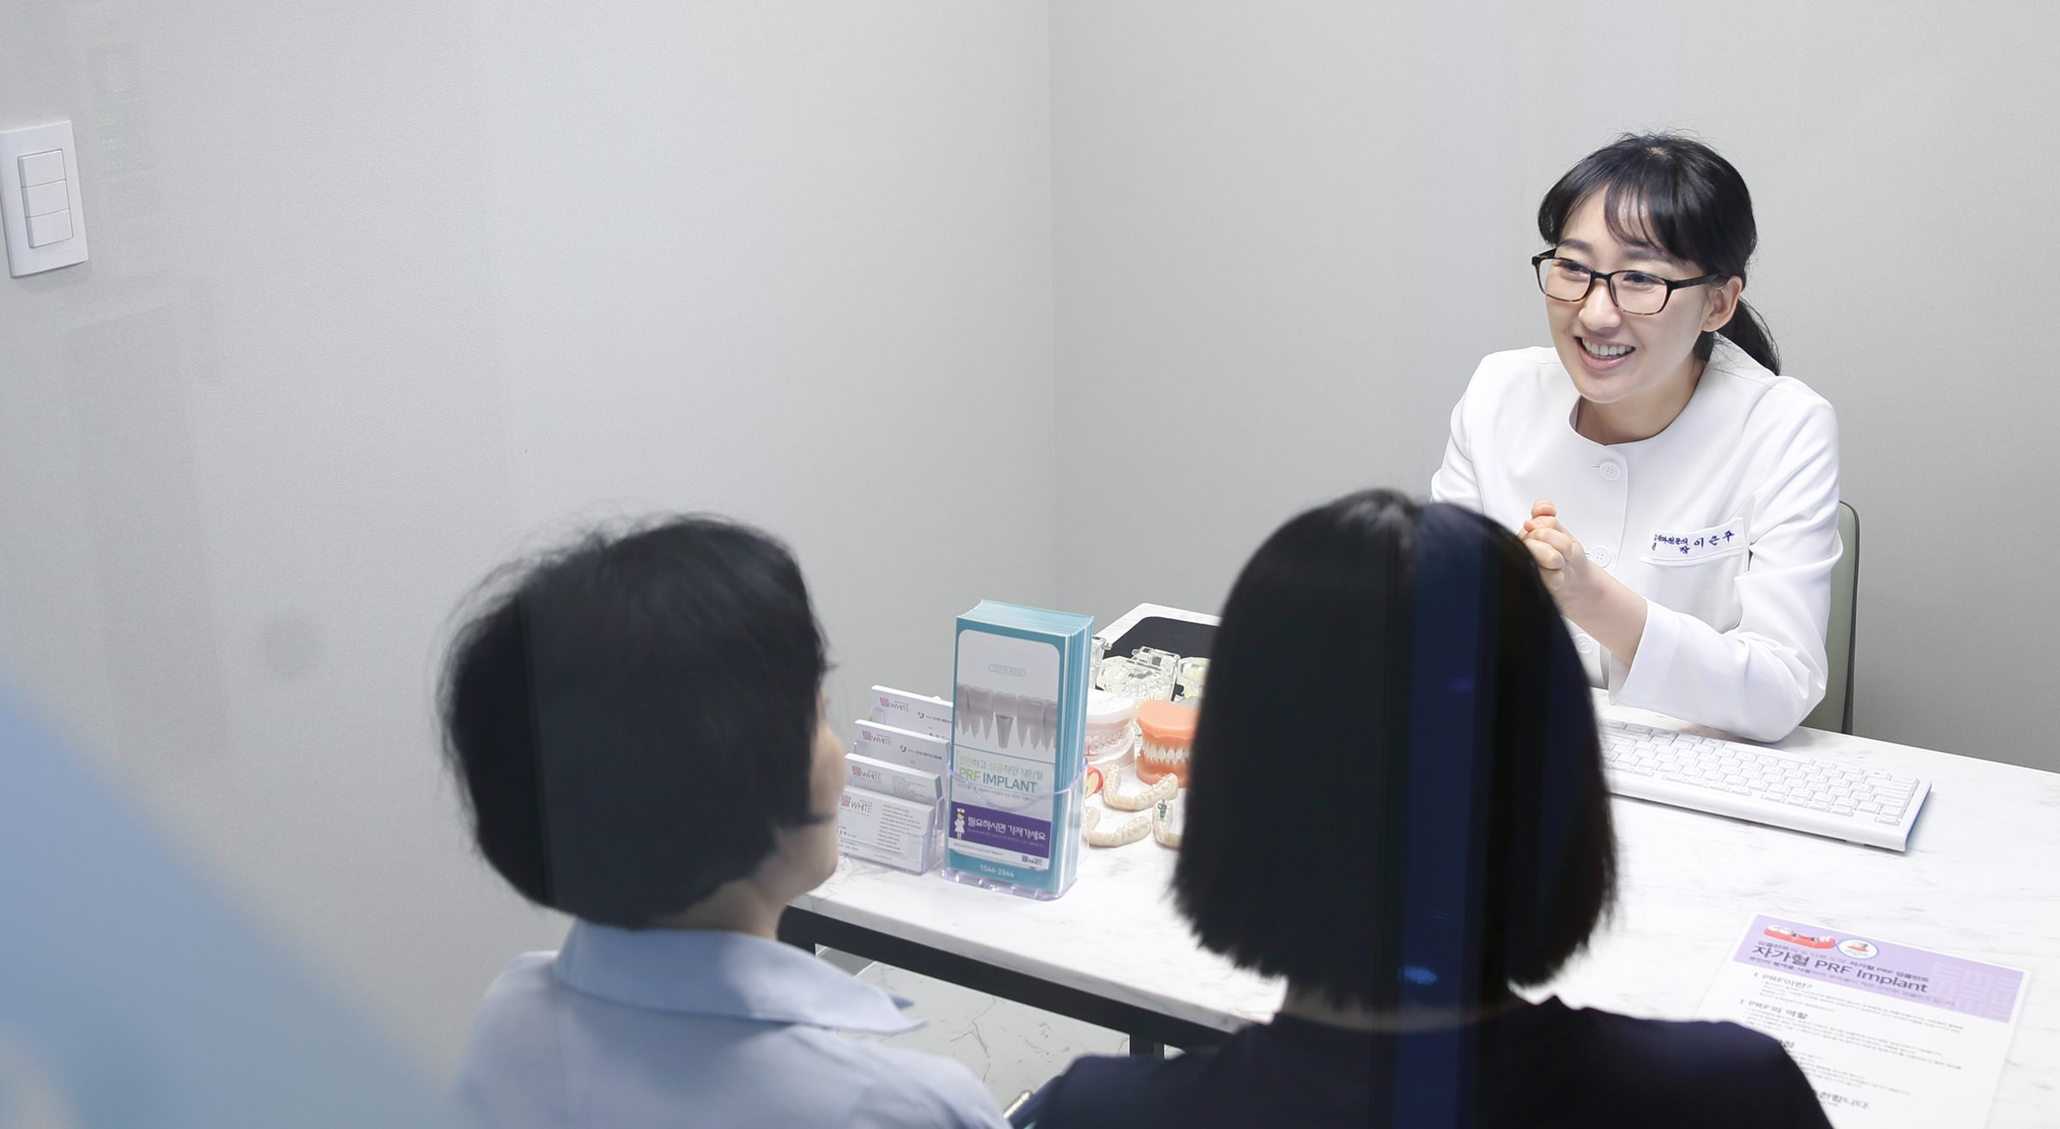
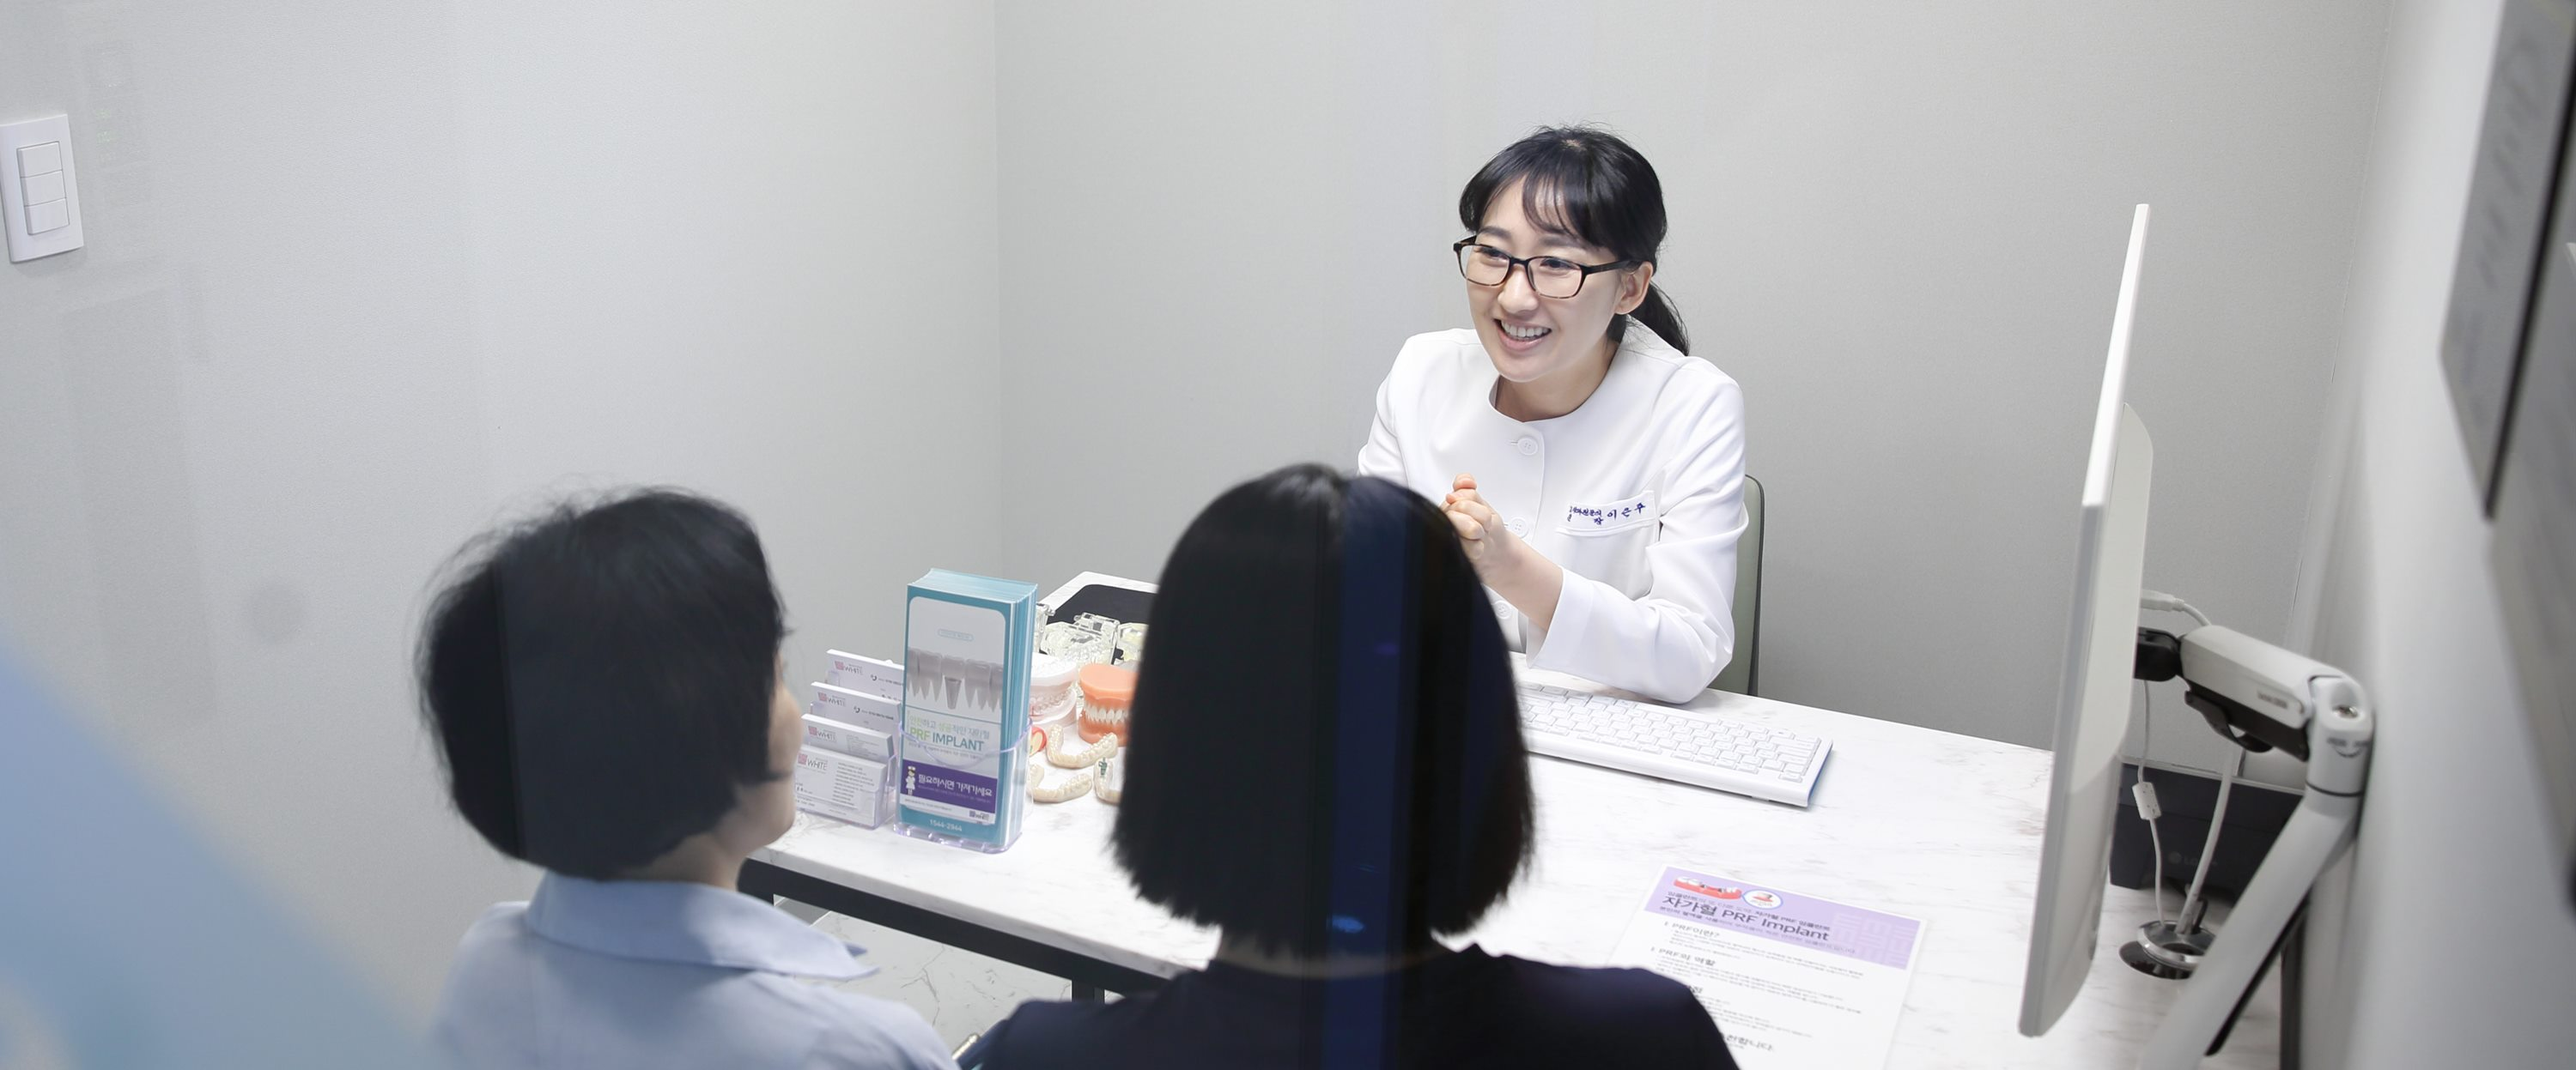
메인 HERO 다듬기 — 왼→오 어둠 그라데이션, 슬라이드별 사진 위치·확대(site-data heroSlides), 1920 기준 문구 크기 clamp, 이은주 대표원장 이름표
- 어두운 막: 왼쪽 0.65 → 가운데 0.35 → 오른쪽 0.1 + 문구 뒤 옅은 어둠(대비 4.5:1 이상, 측정 최저 9.2:1)
- heroSlides: pos/scale/origin/scrim/caption — PC(1025px 이상)만, 모바일 사진 위치는 CSS
- 문구: 1920 라벨 20·제목 72·서브 20·버튼 56 → 1366 까지 비례 축소, 시작선 = 로고
- 2번 슬라이드 이름표(1367px 이상), hero-02 넓게 재크롭 3000×1247, 모바일 63%

diff --git a/assets/css/main.css b/assets/css/main.css
@@ -21,11 +21,38 @@ html::-webkit-scrollbar { display: none; }
 .hero__slide.is-moving { transition: transform 0.9s cubic-bezier(0.65, 0, 0.35, 1); }
 .hero__media { position: absolute; inset: 0; background: linear-gradient(120deg, #3a3330, #151515); } /* 사진이 없을 때 */
 .hero__media img { width: 100%; height: 100%; object-fit: cover; }
-@media (max-width: 768px) { .hero__media--consult img { object-position: 78% center; } } /* 히어로 2번(진료 상담): 세로 화면에서는 원장님 쪽(오른쪽)이 보이게 */
-.hero__media::before { content: ""; position: absolute; inset: 0; z-index: 1; background: linear-gradient(90deg, rgba(10, 10, 10, 0.85) 0%, rgba(10, 10, 10, 0.65) 50%, rgba(10, 10, 10, 0.5) 100%); }
+@media (max-width: 768px) { .hero__media--consult img { object-position: 63% center; } /* hero-02 3000×1247 — 원장님 얼굴이 사진 가로 약 60% */ } /* 히어로 2번(진료 상담): 세로 화면에서는 원장님 쪽(오른쪽)이 보이게 */
+/* 어두운 막: 왼쪽(문구 쪽) 진하게 → 오른쪽(사진 피사체 쪽) 옅게 — 왼쪽 0.65 · 가운데 0.35 · 오른쪽 0.1 (위쪽 헤더 그라데이션은 .hero__slider::after 따로) */
+.hero__media::before { content: ""; position: absolute; inset: 0; z-index: 1; background: linear-gradient(90deg, rgba(10, 10, 10, 0.65) 0%, rgba(10, 10, 10, 0.35) 50%, rgba(10, 10, 10, 0.1) 100%); }
 /* 들어오는 사진: scale 1.06 → 1 (전환과 함께 1.2s) */
 .hero__media img { transform: scale(1); transition: transform 1.2s cubic-bezier(0.65, 0, 0.35, 1); }
 .hero__slide.is-entering .hero__media img { transform: scale(1.06); transition: none; }
+/* 문구 뒤 옅은 어둠(PC): 화면 전체 막은 왼쪽 0.65 → 가운데 0.35 → 오른쪽 0.1 로 옅어서, 문구가 걸치는 가운데 왼쪽에 밝은 사진(창문·흰 가운)이 오면
+   흰 글자 대비가 4.5:1 아래로 떨어진다 → 문구 묶음 뒤에만 가장자리가 부드럽게 사라지는 어둠을 한 겹 더 (문구와 함께 나타남) */
+@media (min-width: 1025px) {
+  .hero__content { isolation: isolate; }
+  .hero__content::before { content: ""; position: absolute; z-index: -1; left: calc(-1 * var(--hero-x) - 40px); width: min(1300px, 75vw); top: -45%; bottom: -45%; background: rgba(10, 10, 10, var(--hero-scrim, 0.6)); -webkit-mask: radial-gradient(farthest-side at 42% 50%, #000 45%, transparent 100%); mask: radial-gradient(farthest-side at 42% 50%, #000 45%, transparent 100%); opacity: 0; pointer-events: none; }
+  .hero__slide.is-shown .hero__content::before { animation: hero-out 0.8s var(--ease) reverse both; }
+  .hero__slide.is-leaving .hero__content::before { animation: hero-out 0.3s ease both; }
+}
+/* PC: 슬라이드별 사진 위치·확대 (site-data.js heroSlides → --hero-pos · --hero-scale · --hero-origin) */
+@media (min-width: 1025px) {
+  .hero__media img { object-position: var(--hero-pos, 50% 50%); transform-origin: var(--hero-origin, 50% 50%); transform: scale(var(--hero-scale, 1)); }
+  .hero__slide.is-entering .hero__media img { transform: scale(calc(var(--hero-scale, 1) * 1.06)); }
+}
+/* 인물 이름표 (site-data.js heroSlides[].caption — main.js 가 만든다): 흰 반투명 + 모서리 4px + 옅은 그림자, 왼쪽 작은 파랑 선
+   이름 16px 굵게 / 직함·진료과 14px. 슬라이드가 들어온 뒤 0.4s 후 아래에서 올라온다. 1366px 이하·모바일은 숨김 */
+.hero__caption { display: none; }
+@media (min-width: 1367px) {
+  .hero__caption { position: absolute; z-index: 2; left: var(--cx); top: var(--cy); display: grid; gap: 2px; padding: 12px 18px 12px 24px; border-radius: 4px; background: rgba(255, 255, 255, 0.9); box-shadow: 0 8px 24px rgba(0, 0, 0, 0.16); color: var(--color-text); opacity: 0; white-space: nowrap; pointer-events: none; }
+  .hero__caption::before { content: ""; position: absolute; left: 12px; top: 14px; bottom: 14px; width: 3px; border-radius: 2px; background: var(--color-accent); }
+  .hero__caption-name { font-size: 1rem; font-weight: 700; line-height: 1.4; }
+  .hero__caption-role { font-size: 0.875rem; line-height: 1.4; color: var(--color-text-sub); }
+  .hero__slide.is-shown .hero__caption { animation: hero-up 0.6s var(--ease) 0.4s both; }
+  .hero__slide.is-leaving .hero__caption { animation: hero-out 0.3s ease both; }
+  .is-intro .hero__slide.is-shown .hero__caption { animation-delay: 1.7s; } /* 첫 진입: 문구 뒤에 */
+}
+@media (prefers-reduced-motion: reduce) { .hero__caption { opacity: 1; } }
 /* 세로 위치: 헤더에 가려지지 않는 부분(헤더 아래 ~ 히어로 끝)의 가운데 */
 .hero__content { --hero-shift: 100px; position: absolute; z-index: 2; top: calc(50% + var(--header-h) / 2); left: calc(var(--hero-x) + var(--hero-shift)); right: calc(var(--hero-x) + 160px); transform: translateY(-50%); } /* 왼쪽: 로고 시작선 + 100px(--hero-shift, PC) · 오른쪽 160px: 플로팅 퀵메뉴 자리 */
 @media (max-width: 1024px) { .hero__content { --hero-shift: 0px; } } /* 태블릿·모바일은 그대로 */
@@ -913,8 +940,13 @@ html.is-fullpage .cases__list { height: max(420px, (100vh - var(--header-h)) * 0
    헤더 칸(common.css .header__inner: 최대 1600px, 좌우 최소 40px)과 같은 선 → 문구 왼쪽 = 로고 시작선, 조작 버튼 오른쪽 = 헤더 오른쪽 끝선 */
 @media (min-width: 1025px) {
   .hero { --hero-x: max(40px, (100cqw - 1600px) / 2); }
-  /* 좁은 데스크톱 + 글자 크게: 가장 긴 제목 줄이 3줄이 되지 않게 화면 폭 기준 상한 */
-  .hero__title { font-size: min(var(--fs-display), 5.4vw); }
+  .hero__content { --hero-shift: 0px; } /* 문구 묶음 왼쪽 시작선 = 로고 시작선 */
+  /* 문구 크기: 1920px 기준 라벨 20 · 타이틀 72 · 서브 20 · 버튼 높이 56 → 화면 폭에 비례해 1366px 까지 줄어든다(clamp)
+     라벨·서브는 어르신 가독성 최소 16px 아래로 내리지 않는다. 좁은 데스크톱 + 글자 크게: 제목 상한 5.4vw (3줄 방지) */
+  .hero__label { font-size: clamp(1rem, 1.0417vw, 1.25rem); }
+  .hero__title { margin-top: clamp(12px, 0.833vw, 16px); font-size: min(clamp(3.2rem, 3.75vw, 4.5rem), 5.4vw); line-height: 1.2; }
+  .hero__desc { margin-top: clamp(20px, 1.25vw, 24px); font-size: clamp(1rem, 1.0417vw, 1.25rem); }
+  .hero__btn { margin-top: clamp(32px, 2.08vw, 40px); height: clamp(44px, 2.917vw, 56px); padding: 0 clamp(28px, 1.875vw, 36px); font-size: clamp(1rem, 0.9375vw, 1.125rem); }
 }
 
 /* ---------- 첫 진입 애니메이션 (페이지 로드 시 1회) ----------
@@ -949,7 +981,7 @@ html.is-fullpage .cases__list { height: max(420px, (100vh - var(--header-h)) * 0
 /* 낮은 화면(높이 800px 이하): 첫 화면 한 장에 [문구 → 조작 버튼 → 퀵바] 가 다 들어가도록 단계적으로 줄인다
    1단계 제목 크기를 화면 높이 기준으로 축소(최대 6vh) + 문구 간격 축소 → 2단계 서브 문구 숨김(글자 크게·아주 크게) */
 @media (min-width: 1025px) and (min-height: 700px) and (max-height: 800px) {
-  html .screen-home .hero__title { font-size: min(var(--fs-display), 5.4vw, 6vh); margin-top: 8px; }
+  html .screen-home .hero__title { font-size: min(clamp(3.2rem, 3.75vw, 4.5rem), 5.4vw, 6vh); margin-top: 8px; }
   .screen-home .hero__desc { margin-top: 14px; }
   .screen-home .hero__btn { margin-top: 22px; }
   html:is([data-fs="lg"], [data-fs="xl"]) .screen-home .hero__desc { display: none; }

diff --git a/assets/js/site-data.js b/assets/js/site-data.js
@@ -101,6 +101,21 @@ window.SITE = {
        photoBacker  true 면 사진 뒤에 흰 둥근 그라데이션(인물 크기)을 깐다 — 섹션 배경 사진(doctors-bg.jpg)의 무늬가 흰 가운 등으로 비칠 때 그 원장만.
                     photoBlend: true 일 때만 쓰임 (투명 PNG 면 필요 없음). 없으면 꺼짐
      지금 값 = '정수리 ~ 턱' 높이가 모두 같고(사진 기준 225px) 정수리가 칸 위에서 7% 선에 오도록 계산한 값. 방법은 README '자주 하는 수정' */
+  /* 메인 히어로 슬라이드별 사진 설정 (index.html 슬라이드 순서와 같게, main.js initHero 가 적용) — PC(1025px 이상)에만
+       pos     사진 위치 object-position ('가로% 세로%') — 사진이 화면보다 넓거나 높을 때 어느 쪽을 보일지
+       scale   확대 비율 (1 = 꽉 채움). 1 보다 크면 origin 을 기준으로 키운다 — 피사체를 가운데~오른쪽으로 옮길 때
+       origin  확대 기준점 transform-origin ('가로% 세로%'), 없으면 가운데
+       scrim   문구 뒤 옅은 어둠 진하기 (0~1, 없으면 0.6) — 문구 뒤에 밝은 부분(흰 장갑 등)이 오는 사진만 올린다 (흰 글자 대비 4.5:1)
+       caption 인물 이름표 { name, role, x, y } — x·y = 이름표 왼쪽 위 위치(히어로 기준 %). 의료진이 없는 사진은 넣지 않는다
+               1367px 이상에서만 보이고(그 아래·모바일은 숨김), 슬라이드가 들어온 뒤 0.4s 후 아래에서 올라온다
+     모바일은 사진 위치를 따로(main.css 768px 이하) */
+  heroSlides: [
+    { pos: '50% 40%', scrim: 0.78 }, // 1 진료 장면: 입·손이 이미 가운데~오른쪽. 흰 장갑이 문구 뒤라 어둠을 진하게
+    { pos: '36% 50%', scale: 1.1, caption: { name: '이은주 대표원장', role: '치과교정과 전문의', x: 60, y: 45 } }, // 2 상담: 원장님이 화면 가로 약 60~85%
+    { pos: '78% 50%' }, // 3 야경 건물: 건물을 오른쪽으로
+    { pos: '50% 46%' }, // 4 임플란트 모형(세로 사진 — 가로 꽉 채움): 모형이 가운데~오른쪽, 확대는 하지 않음(이미 크게 보임)
+  ],
+
   /* 메인 의료진 섹션 인물 나열 순서 (왼쪽 → 오른쪽, 이름). 없는 지점은 대표원장 먼저 + 데이터 순서. 의료진 소개 페이지 순서는 그대로 */
   mainDoctorOrder: {
     changwon: ['권진선', '이은주', '김영우', '이휘소'], // 이은주·김영우 가운데, 권진선·이휘소 양옆

diff --git a/assets/js/main.js b/assets/js/main.js
@@ -131,6 +131,24 @@ function initHero() {
   let busy = false;
 
   slider.querySelector('[data-hero-total]').textContent = slides.length;
+  // 슬라이드별 사진 위치·확대·이름표 (site-data.js heroSlides — CSS 변수로 넘기고 PC 에서만 쓴다)
+  const esc = window.UI?.esc || ((s) => String(s));
+  slides.forEach((s, k) => {
+    const cfg = (window.SITE?.heroSlides || [])[k];
+    if (!cfg) return;
+    if (cfg.pos) s.style.setProperty('--hero-pos', cfg.pos);
+    if (cfg.scale) s.style.setProperty('--hero-scale', cfg.scale);
+    if (cfg.origin) s.style.setProperty('--hero-origin', cfg.origin);
+    if (cfg.scrim != null) s.style.setProperty('--hero-scrim', cfg.scrim);
+    if (cfg.caption && !s.querySelector('.hero__caption')) {
+      const c = document.createElement('p');
+      c.className = 'hero__caption';
+      c.style.setProperty('--cx', `${cfg.caption.x}%`);
+      c.style.setProperty('--cy', `${cfg.caption.y}%`);
+      c.innerHTML = `<strong class="hero__caption-name">${esc(cfg.caption.name)}</strong><span class="hero__caption-role">${esc(cfg.caption.role)}</span>`;
+      s.querySelector('.hero__media').after(c);
+    }
+  });
   if (!slider.hasAttribute('tabindex')) slider.tabIndex = 0; // 키보드 ←→ 로 넘기려면 히어로에 포커스가 들어와야 한다
 
   const wrap = (i) => (i + slides.length) % slides.length;

diff --git a/docs/HANDOVER.md b/docs/HANDOVER.md
@@ -120,7 +120,7 @@
 | clinic-implant.jpg (메인 진료안내 임플란트 카드 — 2026-11-06 교체, 7200×4066 → 1600×904) | 제공 자료 `자료/메인페이지/pc0040716569.jpg` — **출처·라이선스 확인 필요** (구매한 스톡 이미지인지, 웹 사용 범위) | 확인 필요 | 확인 필요 |
 | clinic-wisdom-scaling.jpg (메인 진료안내 사랑니·스케일링 카드 — 2026-11-06 교체, 4200×4200 PNG → 1600×1600 JPG) | 제공 자료 `자료/메인페이지/스케일링.png` — **출처·라이선스 확인 필요** | 확인 필요 | 확인 필요 |
 | clinic-general.jpg (메인 진료안내 일반치료 카드 — 2026-11-06 교체, 6800×5100 → 1600×1200) | 제공 자료 `자료/메인페이지/cb1700001631.jpg` — **출처·라이선스 확인 필요** | 확인 필요 | 확인 필요 |
-| hero-02.jpg (메인 히어로 2번 — 2026-11-06) | 병원 제공 진료 상담 사진 `2.의료진/환자상담/진료상담(1).JPG` 를 참고 이미지(`자료/서브/hero-2참고이미지.png`) 구도대로 자름 (2400×1315) | 병원 | 병원 제공 |
+| hero-02.jpg (메인 히어로 2번 — 2026-11-06) | 병원 제공 진료 상담 사진 `2.의료진/환자상담/진료상담(1).JPG` 를 참고 이미지(`자료/서브/hero-2참고이미지.png`) 구도대로 넓게 자름 (3000×1247 — 원장님 얼굴이 사진 가로 약 60%, PC 화면 가로 60~85%) | 병원 | 병원 제공 |
 | clinic-orthodontics.jpg (메인 진료안내 치아교정 카드 — 2026-11-06 교체, 6000×3375 PNG 에서 왼쪽 흐린 부분 빼고 1.2:1 로 잘라 1600×1333 JPG) | 제공 자료 `자료/메인페이지/pc0040589545.png` — **출처·라이선스 확인 필요** | 확인 필요 | 확인 필요 |
 | clinic-aesthetic.jpg (메인 진료안내 심미치료 카드 — 2026-11-06 교체, 6638×5000 에서 위쪽 흐린 잇몸 30% 잘라 1600×844) | 제공 자료 `자료/메인페이지/tci01060000008.jpg` — **출처·라이선스 확인 필요** | 확인 필요 | 확인 필요 |
 | banner-sub.jpg (서브페이지 공통 배너 — 임시, 실제 원내 사진으로 교체 대상) | [Pexels 8459996](https://www.pexels.com/photo/8459996/) (temp/doctors-bg.jpg 와 같은 사진) | Pexels 페이지에서 확인 | Pexels License |

diff --git a/README.md b/README.md
@@ -124,6 +124,7 @@ docs/                      배포·인수인계 문서
 | 상담 데이터 저장 방식 (지금 더미 → 서버) | `assets/js/api.js` 상담문의 함수 8개 + `docs/API-SPEC.md` |
 | 치료사례 (기존 사이트 시술 전후 14건) | `assets/data/cases.json` — 다시 만들기: `scripts/import` 의 `fetch-gallery.js` → `build-gallery.js` (BEFORE·AFTER 나누기·흐림 미리보기). AFTER 는 로그인 회원만 — 원본 14장은 저장소 밖(자료/기존사이트-치료사례/after/), 시안은 `?login=1` 이어도 흐림 미리보기 + 시안 안내 (`?login=0` 해제) |
 | 메인 의료진 나열 순서 | `assets/js/site-data.js` 의 `mainDoctorOrder` |
+| 메인 히어로 슬라이드별 사진 위치·확대·어둠·인물 이름표 (PC) | `assets/js/site-data.js` 의 `heroSlides` (`pos` · `scale` · `origin` · `scrim` · `caption {name, role, x, y}`) — `main.js` `initHero` 가 적용. 모바일 사진 위치는 `main.css` 768px 이하 |
 | 의료진 소개 지점 이동 버튼(화면 아래 [창원점 N][마산점 N]) · 지점별 묶음 | `assets/js/pages.js` `renderDoctorsPage` · `initDoctorBranchNav` (원장 수는 site-data.js 에서 자동) · 스타일 `common.css` '의료진 소개 카드' · '지점 이동 버튼' |
 | 커뮤니티 게시판 목록·상세 (분류 칩·정렬·보기 방식·검색·페이지 번호·이전/다음글) | `assets/js/board.js` 맨 위 `BOARDS` (게시판별 분류·기본 보기·검색 대상) · 스타일 `common.css` '게시판 목록' — 한 페이지 12개(카드 4개 16개) |
 | 게시판 조회수 | 지금 데이터에는 없음 — `api.js` 가 0 으로 채우고 모두 0 이면 화면에서 조회수 칸을 숨김. 서버 연결 때 `views` 값으로 (API-SPEC 4-7) |

diff --git a/assets/images/README.md b/assets/images/README.md
@@ -10,7 +10,7 @@
 |---|---|---|
 | `hero-bg.jpg` | 메인 히어로 뒤 어두운 배경 (원내 사진) | 1920×900 |
 | `hero-01.jpg` | 히어로 슬라이드 1 (진료 장면) | 1500×750 |
-| `hero-02.jpg` | 히어로 슬라이드 2 (상담 장면) — 병원 진료 상담 사진을 참고 이미지(자료/서브/hero-2참고이미지.png) 구도대로 자름 2400×1315, 모바일은 원장님 쪽(오른쪽 78%) 기준 — main.css `.hero__media--consult` (2026-11-06) | 1500×750 이상 |
+| `hero-02.jpg` | 히어로 슬라이드 2 (상담 장면) — 병원 진료 상담 사진을 참고 이미지(자료/서브/hero-2참고이미지.png) 구도대로, 원장님이 PC 화면 가로 약 60~85% 에 오도록 넓게 자름 3000×1247 (원장님 얼굴 = 사진 가로 약 60%), 모바일은 63% 기준 — main.css `.hero__media--consult` (2026-11-06) | 1500×750 이상 |
 | `hero-03-night.jpg` | 히어로 슬라이드 3 (평일 야간진료) — 밤에 창마다 불이 켜진 건물 (Unsplash, 좌우 반전·가로 3600px 로 줄임, 2026-11-05) | 3600×1329 |
 | `hero-03-event-implant.jpg` | 히어로 슬라이드 4 (임플란트 이벤트) | 1500×750 |
 | `doctors-bg.jpg` | 메인 의료진 섹션 배경 (유리 원형 오브제, 위에 흰 막 90% = 사진 10%) | 2400×1500 |
